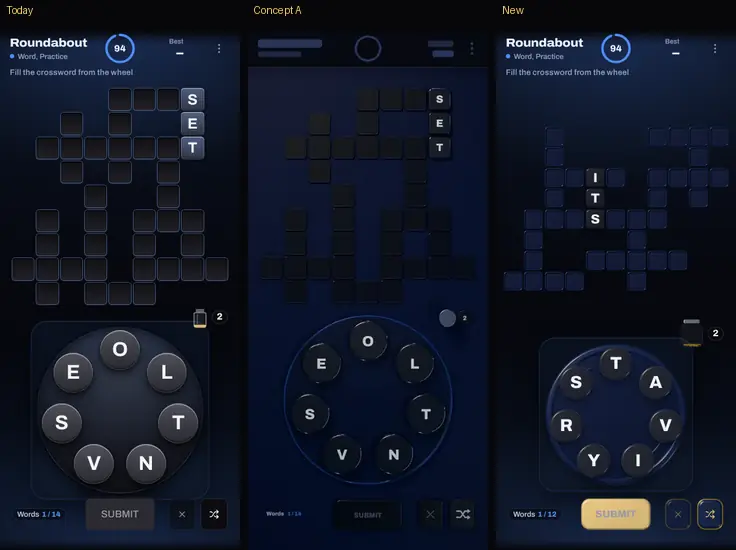
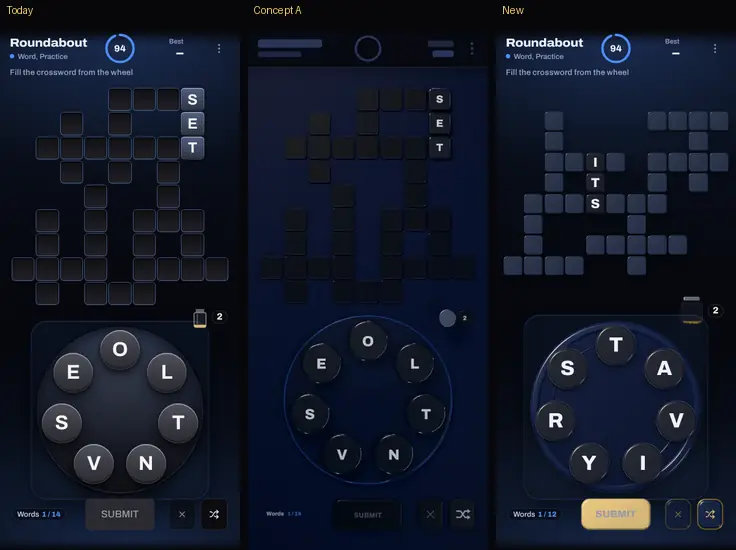
Word overhaul: Joe's stage-1 fixes (Roundabout slate squares and bigger wheel, Strikeout tall tiles with the clue, Lookout pen-ring loops, Slider key with Yours)
Claude-Session: https://claude.ai/code/session_011WK1FeixwwM4zJJ2mYsxD6

diff --git a/src/puzzles/strikeout.tsx b/src/puzzles/strikeout.tsx
@@ -101,6 +101,7 @@ export function Row({
   tileH,
   rowIndex,
   art = false,
+  fontScale,
 }: {
   /** The live stage's rendered tiles (reveals keep their markup; strikeout.css styles them by their look). */
   art?: boolean;
@@ -113,6 +114,8 @@ export function Row({
   /** Tile height when it differs from its width (batch W: Strikeout's live row is a little taller than wide). */
   tileH?: string | undefined;
   rowIndex: number;
+  /** Letter size as a share of the tile's width (0.55 unless a taller live tile asks for more). */
+  fontScale?: number | undefined;
 }) {
   const side = typeof tile === "number" ? `${tile}px` : tile;
   const height = tileH ?? side;
@@ -131,7 +134,7 @@ export function Row({
           data-wa={art ? WA_LOOK[looks[i] ?? "hidden"][0] : undefined}
           data-wa-tone={art ? WA_LOOK[looks[i] ?? "hidden"][1] : undefined}
           className={`so-tile flex items-center justify-center rounded-md font-display font-bold ${TILE[looks[i] ?? "hidden"]}`}
-          style={{ width: side, height, fontSize: `calc(${side} * 0.55)` }}
+          style={{ width: side, height, fontSize: `calc(${side} * ${fontScale ?? 0.55})` }}
         >
           {ch || "\u00a0"}
         </span>
@@ -658,7 +661,9 @@ function Stage2({ puzzle, locked, onSubmit, onDraftAnswer, checkMoves, stateKey 
   const tileCount = Math.max(1, pattern.length || 8);
   // The Word overhaul: the keyboard sits at the bottom and the tiles take the room it left (up to 72 × 96 px).
   const tileSize = `min(72px, calc((100cqw - ${8 + (tileCount - 1) * 4}px) / ${tileCount}), calc((100cqh - 56px) / 1.6))`;
-  const tileHeight = "min(max(calc(var(--so-tile) * 1.45), 72px), 96px, calc((100cqh - 40px) / 1.25))";
+  // Joe (15 Nov 2026): the band the keyboard left is the word's: tall tiles (up to 128 px) and the solved words with
+  // the clue held just above them as one group, centred in the arena (never a clue floating alone).
+  const tileHeight = "min(max(calc(var(--so-tile) * 2), 72px), 128px, calc((100cqh - 96px) * 0.8))";
   let k = 0;
   const letters = [...shown].map((ch) => (ch === "_" ? (isSolving ? (typed[k++] ?? "") : "") : ch));
   k = 0;
@@ -693,18 +698,15 @@ function Stage2({ puzzle, locked, onSubmit, onDraftAnswer, checkMoves, stateKey 
         <VowelsLeft left={vowelsLeft} max={rules.maxVowels} />
       </div>
       <div data-game-arena="strikeout" className="flex min-h-0 w-full flex-1 items-center justify-center" style={{ containerType: "size" }}>
-        <div ref={board} className="flex h-full w-full flex-col items-center" style={{ ["--so-tile" as string]: tileSize }}>
-          {/* The words already solved (Joe's phone notes, 27 Oct 2026; display only) sit centred in the space between
-              the top bar and the tiles (his notes of 28 Oct 2026). The tiles keep their place: this space takes what
-              the arena leaves above them, and the words float in it (absolute), so the board tray still hugs the tiles. */}
-          <div data-so-solved-space="" className="relative w-full min-h-0 flex-1">
-            <div className="absolute inset-x-2 top-1/2 flex -translate-y-1/2 flex-wrap justify-center gap-1" aria-label="Solved words">
-              {solvedWords.map((w, i) => (
-                <span key={i} data-so-solved={i} className="bw-lift rounded bg-primary/90 px-1.5 py-0.5 font-mono text-[11px] font-bold tracking-wider text-primary-foreground">
-                  {w}
-                </span>
-              ))}
-            </div>
+        <div ref={board} className="flex h-full w-full flex-col items-center justify-center gap-3" style={{ ["--so-tile" as string]: tileSize }}>
+          {/* The words already solved (Joe's phone notes, 27 Oct 2026; display only) sit just above the tiles, the two
+              centred together in the arena (Joe, 15 Nov 2026: no clue floating alone in the space the keyboard left). */}
+          <div data-so-solved-space="" className="flex w-full shrink-0 flex-wrap justify-center gap-1 px-2 pt-2" aria-label="Solved words">
+            {solvedWords.map((w, i) => (
+              <span key={i} data-so-solved={i} className="bw-lift rounded bg-primary/90 px-2 py-0.5 font-mono text-[13px] font-bold tracking-wider text-primary-foreground">
+                {w}
+              </span>
+            ))}
           </div>
           <Row
             letters={letters}
@@ -713,6 +715,7 @@ function Stage2({ puzzle, locked, onSubmit, onDraftAnswer, checkMoves, stateKey 
             rowIndex={cur}
             tile="var(--so-tile)"
             tileH={tileHeight}
+            fontScale={0.68}
             onTap={done ? undefined : toggleSolve}
             art
           />

diff --git a/src/puzzles/letterWheel.tsx b/src/puzzles/letterWheel.tsx
@@ -58,8 +58,9 @@ export function Crossword({
           <div
             key={cell}
             data-lw-cell={cell}
-            data-wa={art ? (ch ? "tile" : miss ? "tile" : "well") : undefined}
-            data-wa-tone={art ? (ch ? "black" : miss ? "dim" : undefined) : undefined}
+            // Empty squares are low slate tiles (Joe, 15 Nov 2026: as readable as today's, never near-black wells).
+            data-wa={art ? "tile" : undefined}
+            data-wa-tone={art ? (ch ? "black" : miss ? "dim" : "slate") : undefined}
             className={`word-letter-tile flex items-center justify-center rounded-sm font-mono font-bold ${
               ch ? "bg-primary text-primary-foreground" : miss ? "bg-card text-muted-foreground ring-1 ring-inset ring-destructive" : "bg-card"
             }`}
@@ -495,8 +496,8 @@ function Stage({ puzzle, locked, onSubmit, onDraftAnswer, checkWord, stateKey }:
       // 3 Nov 2026 (Joe's audit: tiny crossword cells under a large wheel): the wheel gives the crossword about 80 px,
       // 172–220 px plus growth up to 280 px only past a 380 px crossword (100cqh - 460 px); the crossword's cap is
       // 380 px tall (polish-nov3-word.css) and 400 px wide.
-      // The Word overhaul (15 Nov 2026): the crossword gets more of the height again (the wheel 156–200 px).
-      style={{ "--lw-wheel": "max(clamp(156px, calc(100cqh - 430px), 200px), min(260px, calc(100cqw - 24px), calc(100cqh - 500px)))" } as CSSProperties}
+      // The Word overhaul (Joe, 15 Nov 2026): a bigger wheel than today's (180–224 px, up to 290 px on tall screens).
+      style={{ "--lw-wheel": "max(clamp(180px, calc(100cqh - 400px), 224px), min(290px, calc(100cqw - 24px), calc(100cqh - 450px)))" } as CSSProperties}
     >
       <div data-arena-part="letterwheel-board" data-word-first="" className="flex min-h-0 w-full flex-[7] items-center justify-center" style={{ containerType: "size" }}>
         <div

diff --git a/src/polish-word/word-look.css b/src/polish-word/word-look.css
@@ -8,7 +8,7 @@
  *
  * Used through attributes, so every game keeps its own markup and hit areas:
  *   data-wa="tile" | "tile-sm" | "disc" | "well" | "key" | "pip"   the piece
- *   data-wa-tone="gold" | "teal" | "grey" | "red" | "dim" | "sapphire" | "amber" | "black"   its material (black by default)
+ *   data-wa-tone="gold" | "teal" | "grey" | "red" | "dim" | "sapphire" | "amber" | "slate" | "black"   its material (black by default)
  *   data-wa-ring                                                  picked: a fine gold ring inside the edge
  *   data-wa-btn="gold" | "navy"                                   a control
  * Imported once by every Word game's module (and its reveal), after the game's own styles.
@@ -53,6 +53,7 @@
 [data-wa="tile"][data-wa-tone="dim"] { --wa-img: url(/word-art/tile-dim.webp); }
 [data-wa="tile"][data-wa-tone="sapphire"] { --wa-img: url(/word-art/tile-sapphire.webp); }
 [data-wa="tile"][data-wa-tone="amber"] { --wa-img: url(/word-art/tile-amber.webp); }
+[data-wa="tile"][data-wa-tone="slate"] { --wa-img: url(/word-art/tile-slate.webp); }
 [data-wa="tile-sm"][data-wa-tone="gold"] { --wa-img: url(/word-art/tile-small-gold.webp); }
 [data-wa="tile-sm"][data-wa-tone="dim"] { --wa-img: url(/word-art/tile-small-dim.webp); }
 [data-wa="tile-sm"][data-wa-tone="sapphire"] { --wa-img: url(/word-art/tile-sapphire.webp); }

diff --git a/src/polish-word/lookout.css b/src/polish-word/lookout.css
@@ -1,15 +1,17 @@
 /*
  * Lookout's look (the Word overhaul, 15 Nov 2026): concept A. A grid of small glazed tiles (word-look.css); a found
- * word circled by a gold capsule loop with a faint gold wash, its letters readable inside; the line being dragged in
- * sapphire glaze. Word chips show whole words (they wrap rather than cut). Display only.
+ * word keeps its tiles and is circled by a gold capsule loop, like a pen ring round it (Joe, 15 Nov 2026: never filled
+ * gold tiles), its letters in gold inside; the line being dragged in sapphire glaze. Word chips show whole words (they wrap rather than cut). Display only.
  */
 [data-polish="wordsearch"] [data-game-arena] [data-play-area] { border-radius: 10px; }
 .lookout-loop {
   fill: none;
-  stroke: var(--jz-gold-ledge);
-  stroke-width: 0.07;
+  stroke: var(--jz-gold);
+  stroke-width: 0.1;
   stroke-linejoin: round;
 }
+/* A found word's letters inside its loop: gold on the glazed tile, so the word reads as found with no filled tiles. */
+[data-ws-found][data-wa][data-wa][data-wa][data-wa] { color: var(--jz-gold-ink) !important; }
 
 /* Chips: found ones champagne gold with the whole word; open ones a recessed well with the letter count. */
 .lookout-word-chip, .lookout-word-placeholder {

diff --git a/src/puzzles/wordSearch.tsx b/src/puzzles/wordSearch.tsx
@@ -74,7 +74,10 @@ export function Grid({
             data-ws-cell={cell}
             data-bw-live={live?.has(cell) && !bad?.has(cell) ? "" : undefined}
             data-wa="tile-sm"
-            data-wa-tone={bad?.has(cell) ? "red" : live?.has(cell) ? "sapphire" : gold.has(cell) ? "gold" : missedOnly ? "dim" : "black"}
+            // Joe (15 Nov 2026): a found word keeps its glazed tiles and is circled by the gold capsule loop, like a pen
+            // ring round it (concept A); its tiles are no longer filled gold.
+            data-wa-tone={bad?.has(cell) ? "red" : live?.has(cell) ? "sapphire" : gold.has(cell) ? "black" : missedOnly ? "dim" : "black"}
+            data-ws-found={gold.has(cell) && !bad?.has(cell) && !live?.has(cell) ? "" : undefined}
             className={`word-letter-tile flex aspect-square items-center justify-center rounded-sm font-mono font-bold ${fill} ${missedOutline}`}
             style={{ fontSize: small ? "max(9px, 5.6cqw)" : `clamp(16px, calc(min(100cqw, 100cqh) * ${(0.6 / size).toFixed(4)}), 28px)` }}
           >

diff --git a/src/puzzles/wordSlide.tsx b/src/puzzles/wordSlide.tsx
@@ -471,9 +471,14 @@ function RevealOverhaul({ puzzle, myAnswer, myCorrect, validRows }: PuzzleReveal
       />
       <BoardPair
         solution={<Board grid={[...words.join("")]} cell={cell} good={new Set()} shut />}
-        yours={<Board grid={replay.grid} cell={cell} good={good} />}
+        // Joe (15 Nov 2026): the key belongs to Yours only (the solution is all locked gold).
+        yours={
+          <>
+            <Board grid={replay.grid} cell={cell} good={good} />
+            <RevealKey items={[{ tone: "teal", label: "A real word" }, { tone: "black", label: "Not a word" }]} />
+          </>
+        }
       />
-      <RevealKey items={[{ tone: "teal", label: "A real word" }, { tone: "black", label: "Not a word" }]} />
     </div>
   );
 }

diff --git a/src/polish-layout/polish-nov3-word.css b/src/polish-layout/polish-nov3-word.css
@@ -69,8 +69,8 @@
 
 /* Roundabout: the crossword takes the height the wheel gave up (main capped it at 260 px tall and 334 px across). */
 .game-column [data-polish="letterwheel"][data-word-polish] > [data-arena-part="letterwheel-board"][data-arena-part] {
-  height: min(420px, calc(100cqh - var(--lw-wheel) - 80px));
-  max-height: min(440px, 100cqw);
+  height: min(380px, calc(100cqh - var(--lw-wheel) - 80px));
+  max-height: min(400px, 100cqw);
 }
 /* Its word count and misses: two compact pills stacked inside the 44 px row. */
 [data-word-polish="letterwheel"] [data-lw-count] .hud-pills {

diff --git a/scripts/word-art/word_art.py b/scripts/word-art/word_art.py
@@ -242,6 +242,9 @@ def palette():
         well=mat("well", hexc("#0E1630"), rough=0.45, coat=0.4, coat_rough=0.15),
         tray=mat("tray", hexc("#0C1530"), rough=0.3, coat=0.8, coat_rough=0.07, bump=0.012),
         well_plate=mat("well_plate", hexc("#18223F"), rough=0.3, coat=0.8, coat_rough=0.06, bump=0.012),
+        # Roundabout's empty crossword squares: a slate glaze a step lighter than the board, so every square reads
+        # clearly before it is filled (Joe, 15 Nov 2026: today's squares were easier to see than dark wells).
+        slate=mat("glaze_slate", hexc("#2C3448"), rough=0.3, coat=0.8, coat_rough=0.06, spec=0.5, dome=0.35),
         # Cryptogrid's picked number: the dark glaze tinted gold (concept A's tinted, gold-ringed square).
         amber=mat("glaze_amber", hexc("#4A3A1A"), rough=0.3, coat=0.85, coat_rough=0.05, spec=0.5, dome=0.35),
         # Metals that shine.
@@ -502,6 +505,7 @@ PIECES = {
     "tile-dim": (64, 64, tile("dim")),
     "tile-sapphire": (64, 64, tile("sapphire")),
     "tile-amber": (64, 64, tile("amber")),
+    "tile-slate": (64, 64, tile("slate", d=6)),
     # Small tiles for dense grids (Lookout 10x10 and 12x12, Cryptogrid 9x9): a lower slab and tighter bevel.
     "tile-small-black": (36, 36, tile("black", 36, 6, 6)),
     "tile-small-gold": (36, 36, tile("gold", 36, 6, 6)),

diff --git a/docs/design/pages-review/word/GALLERY.md b/docs/design/pages-review/word/GALLERY.md
@@ -35,17 +35,17 @@ Concept A: glazed tiles, the traced word in sapphire glaze with a fine line betw
 <img src="img/wordhunt-compare.webp" width="760">
 
 ### Lookout
-Concept A: small glazed tiles, found words in enamel gold inside a fine capsule line, the chips below as tags; on `wordSearchRev 6` the round goes on after the sixth word for the bonus, with Done.
+Concept A: small glazed tiles, a found word circled by a gold capsule loop like a pen ring (its letters gold, the tiles never filled gold; Joe, 15 Nov 2026), the chips below as tags; on `wordSearchRev 6` the round goes on after the sixth word for the bonus, with Done.
 
 <img src="img/wordsearch-compare.webp" width="760">
 
 ### Roundabout
-Concept A: the crossword as dark recessed wells and glazed tiles, the letter wheel a turned lacquer tray, the bonus jar real glass (a crisp line down its curve) filling with polished coins. A miss and a repeat look different; boards without odd or many three-letter words (`wheelRev 5`).
+Concept A: the crossword's empty squares as low slate glazed tiles (as readable as today's; Joe, 15 Nov 2026) and filled ones glazed tiles, the letter wheel a bigger turned lacquer tray, the bonus jar real glass (a crisp line down its curve) filling with polished coins. A miss and a repeat look different; boards without odd or many three-letter words (`wheelRev 5`).
 
 <img src="img/letterwheel-compare.webp" width="760">
 
 ### Strikeout
-Concept A: strike counters as gold enamel pips turning to red studs, the word as tiles in a dark slot, the keyboard real keys with depth at the bottom (52 px, with a letter preview), Solve gold.
+Concept A: strike counters as gold enamel pips turning to red studs, the word as tall tiles in a dark slot with the solved words just above them, the two centred together in the space the keyboard left (Joe, 15 Nov 2026), the keyboard real keys with depth at the bottom (52 px, with a letter preview), Solve gold.
 
 <img src="img/strikeout-compare.webp" width="760">
 
